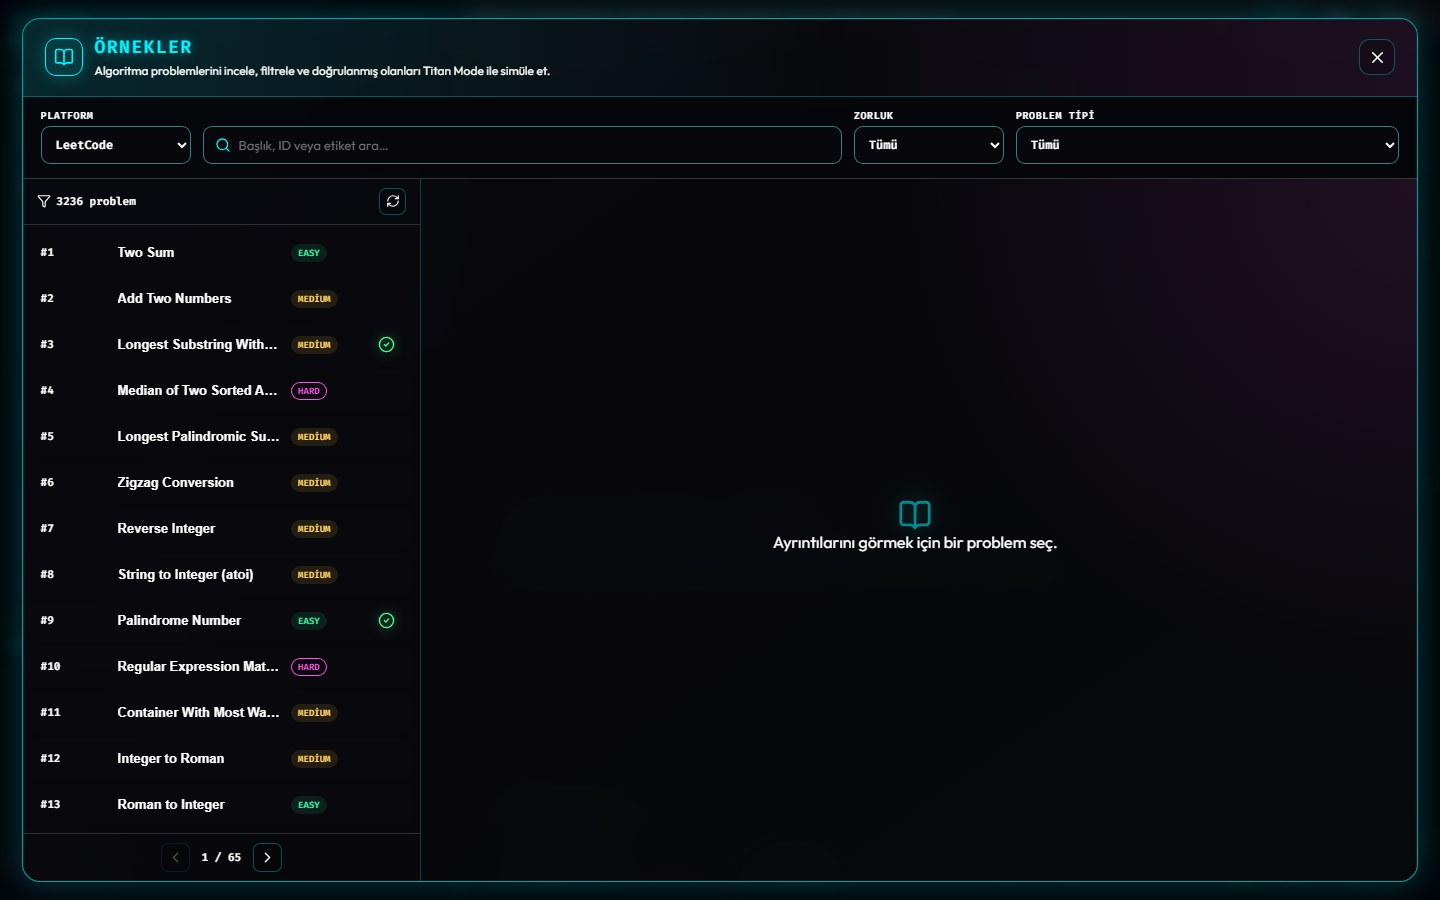
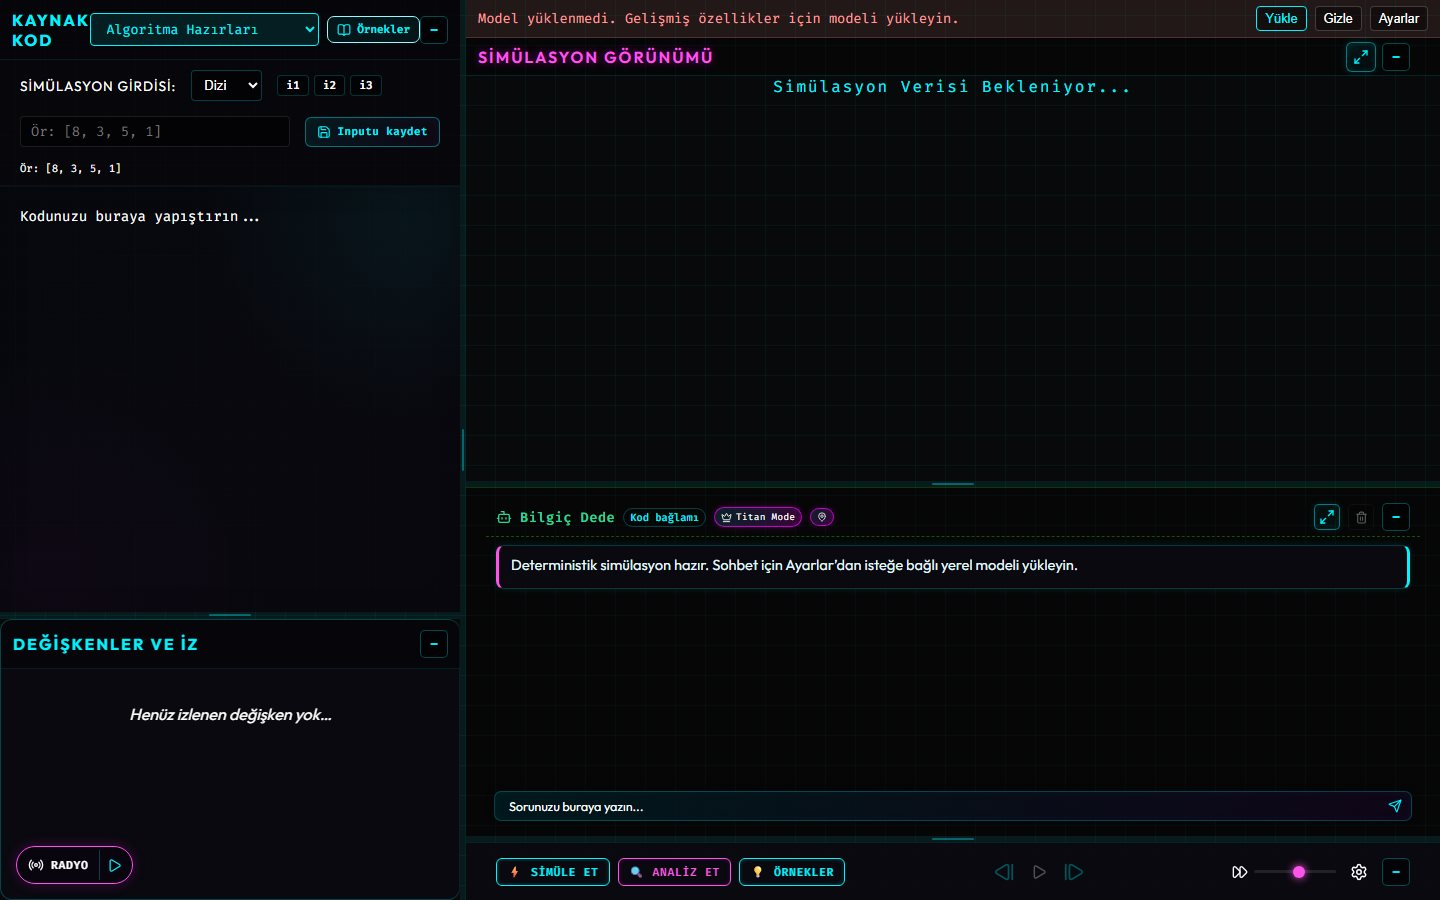
Teknesyum Base 3.4.1
- Lead line set apart from the program name by an accent rule and lighter text
- CodeXRay card shows its main screen instead of the catalogue page

diff --git a/src/views/library.css b/src/views/library.css
@@ -471,9 +471,11 @@ article.row > .card__foot {
   flex: 1 1 calc(var(--tk-sidebar-w) / 1.5);
   margin: 0;
   min-width: 0;
-  color: var(--tk-text);
+  padding-inline-start: var(--tk-sp-3);
+  border-inline-start: var(--tk-focus-w) solid var(--tk-renk-2);
+  color: color-mix(in srgb, var(--tk-text) 80%, transparent);
   font-size: var(--tk-fs-1);
-  font-weight: var(--tk-fw-semi);
+  font-weight: var(--tk-fw-body);
   line-height: var(--tk-lh-heading);
 }
 
